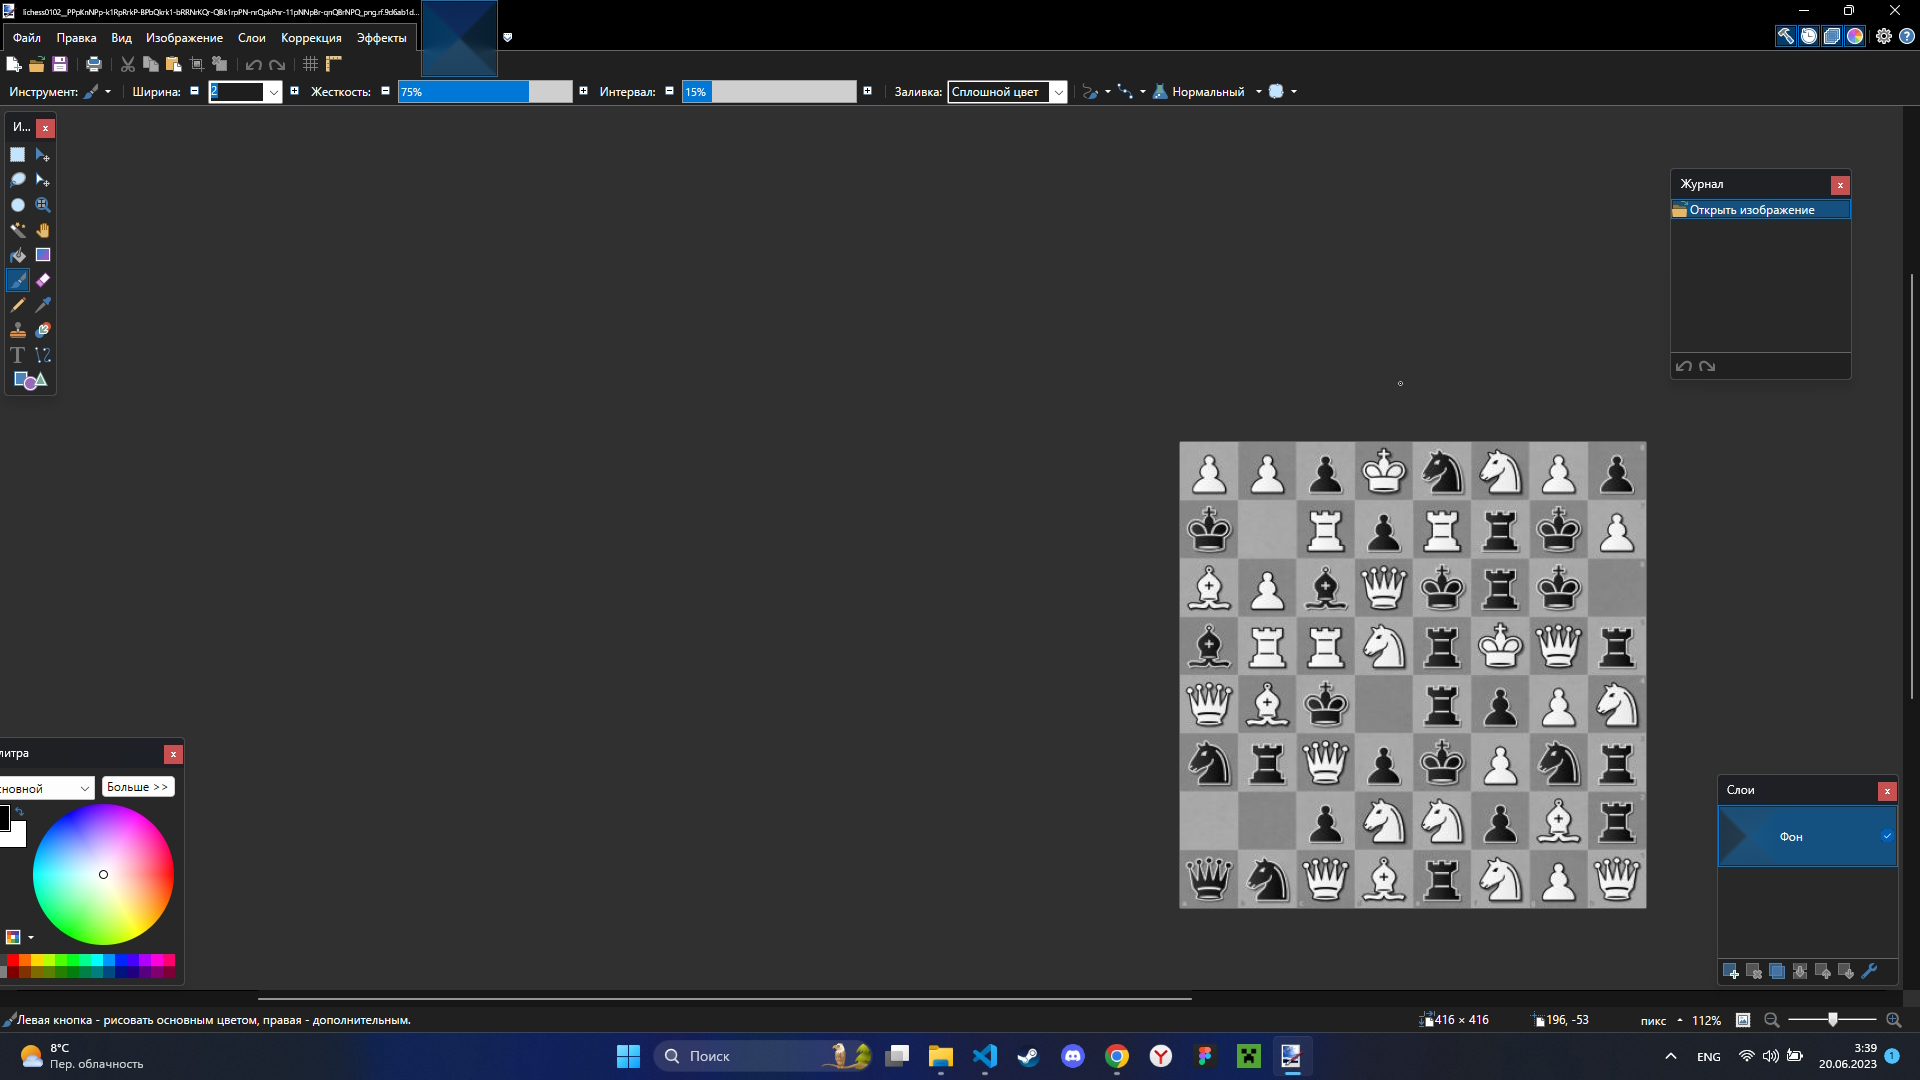
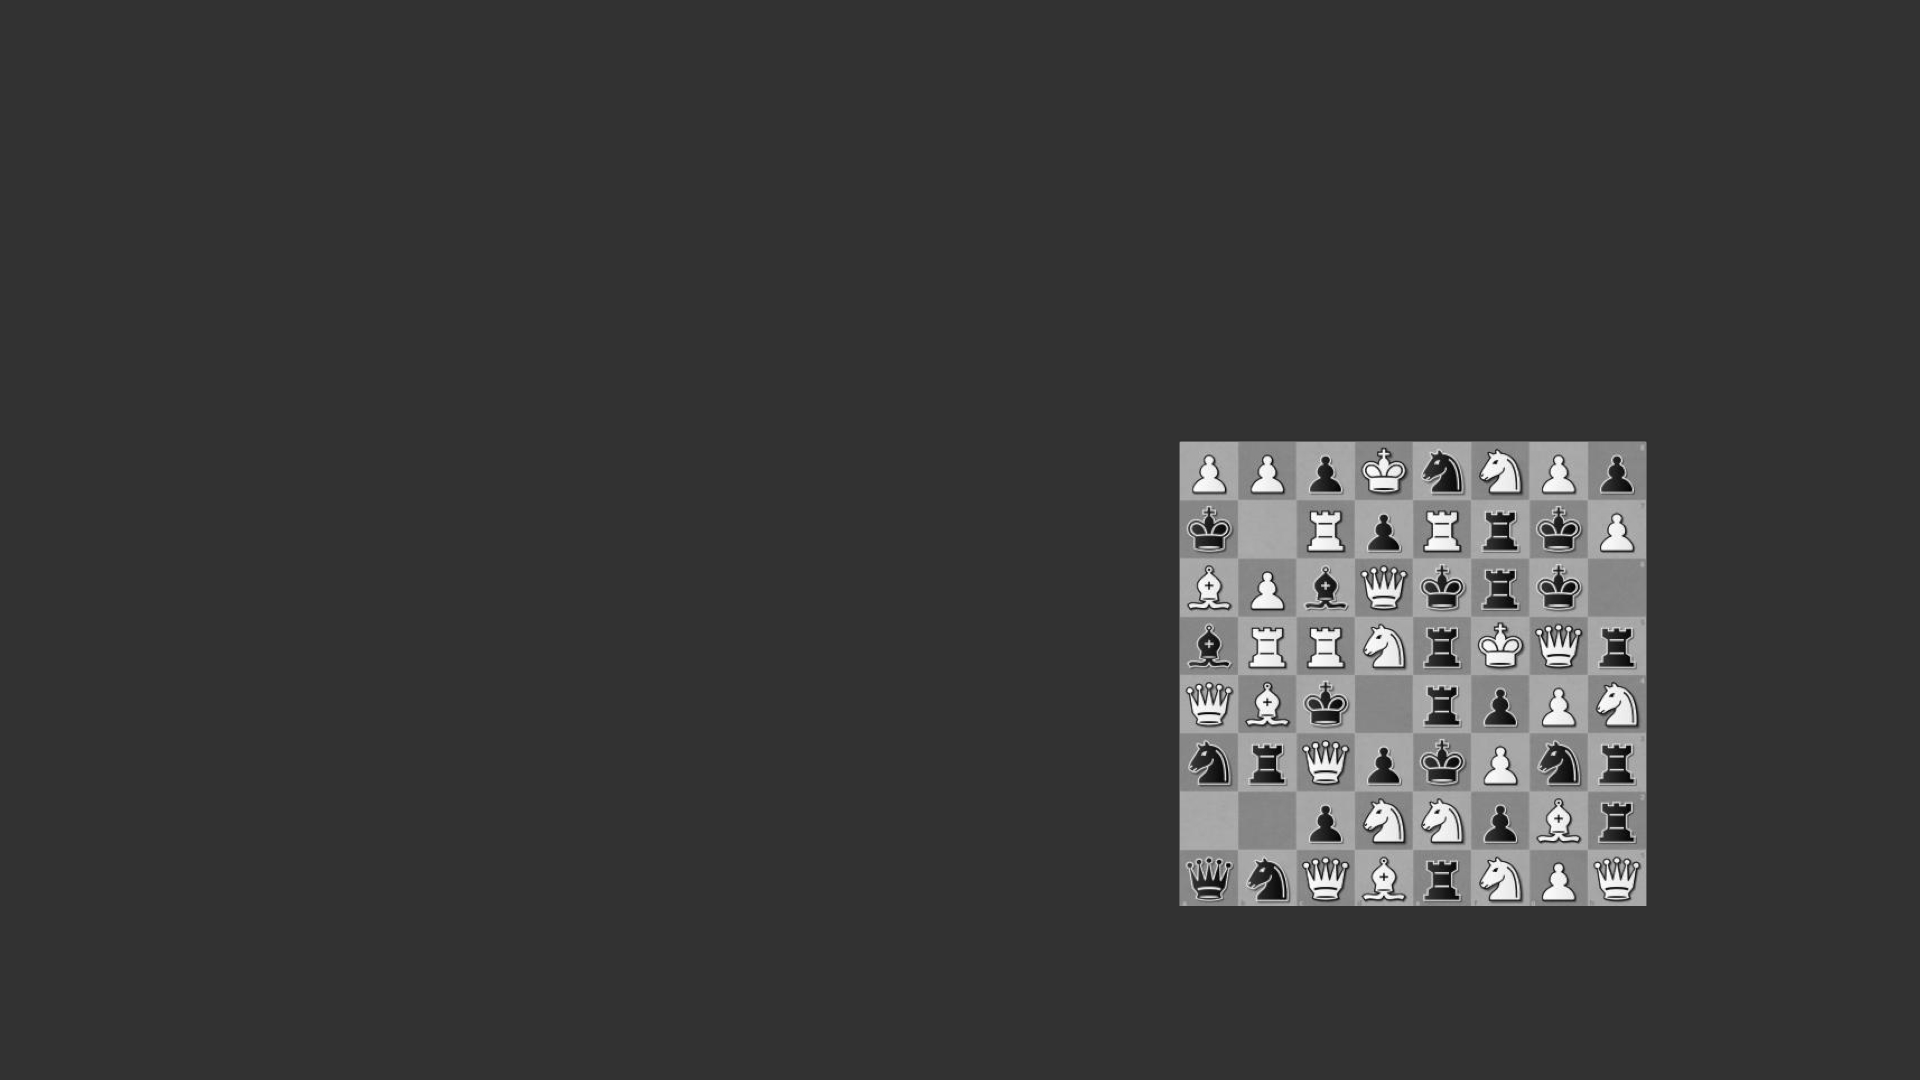
Anonymize chessboard test screenshots

Changed region(s): [[0.0, 0.0917, 1.0, 1.0], [0.0, 0.0, 1.0, 0.3667]]

diff --git a/services/chessboard_detection/test_line_detector.py b/services/chessboard_detection/test_line_detector.py
@@ -47,7 +47,7 @@ class LineDetectionTests(unittest.TestCase):
     def test_finds_all_boards_in_montage(self) -> None:
         """Find all eight distinct labelled boards in a screen with adjacent games."""
         fixtures = Path(__file__).with_name("fixtures") / "screenshots"
-        path = fixtures / "images" / "chessboard_detect_0100.jpg"
+        path = fixtures / "images" / "chessboard_detect_0100.png"
         image = cv2.imdecode(np.frombuffer(path.read_bytes(), dtype=np.uint8), cv2.IMREAD_COLOR)
         height, width = image.shape[:2]
         labels = _read_labels(fixtures / "labels" / f"{path.stem}.txt", width, height)

diff --git a/services/chessboard_detection/README.md b/services/chessboard_detection/README.md
@@ -39,7 +39,7 @@ agree within 2 pixels, with a tighter limit for small boards. A board must measu
 80 pixels on its shorter side in the source image.
 
 ```sh
-python -B -m services.chessboard_detection services/chessboard_detection/fixtures/screenshots/images/chessboard_detect_0100.jpg --detector lines --overlay lines.png
+python -B -m services.chessboard_detection services/chessboard_detection/fixtures/screenshots/images/chessboard_detect_0100.png --detector lines --overlay lines.png
 ```
 
 The line detector returns `grids`, a list in image order.
@@ -56,9 +56,12 @@ class `0`, followed by normalized center x, center y, width and height. The fixt
 regression sample from the training split.
 
 Label the playing area of every complete 8×8 board at least 80 pixels on its shorter side.
-Leave clipped fragments outside the annotation set. Five smaller editor and desktop previews
-were masked in `0002`, `0057` and `0082`, and their labels were removed. Those edited copies are
-PNG files, with the source pixels preserved outside the mask.
+Leave clipped fragments outside the annotation set. Five smaller previews in `0002`, `0057`
+and `0082` were removed from the images and labels. In screenshots with readable interface
+content, pixels outside the labelled boards are replaced with a neutral background. The
+video timestamp over the board in `0001` is masked separately. The edited PNGs retain the
+original image dimensions and annotation coordinates. The other screenshots retain their
+pixels and have no EXIF, application metadata or comments beyond the standard JPEG header.
 
 ```sh
 python -B -m services.chessboard_detection.benchmark
